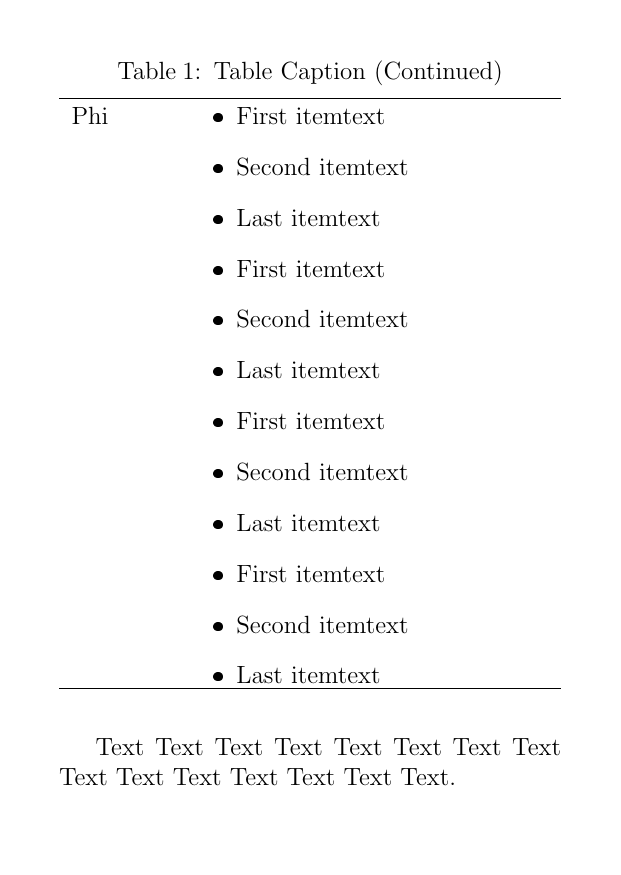
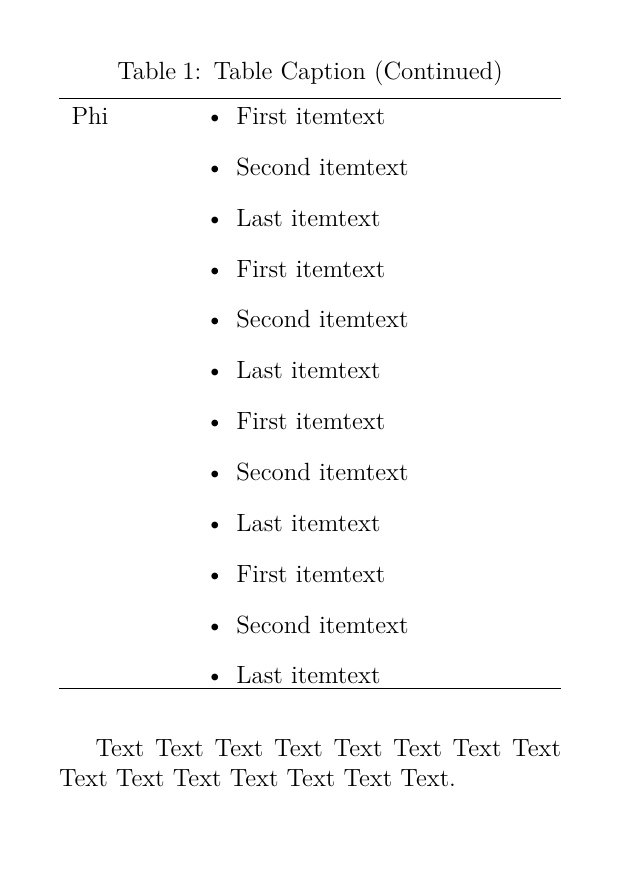
avoid using ec font in test files

diff --git a/testfiles/long-002.tex b/testfiles/long-002.tex
@@ -9,6 +9,7 @@
 \usepackage{tabularray}
 \usepackage{array}
 \usepackage{blindtext}
+\usepackage{lmodern} % avoid using ec font
 
 \SetTblrTracing{none}
 
